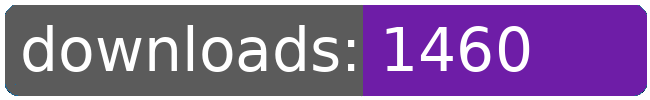
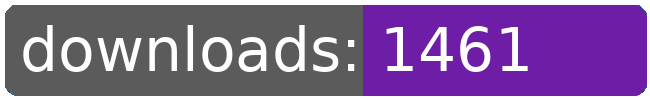
dl log written

Changed region(s): [[0.7692, 0.24, 0.8308, 0.72]]

diff --git a/README.md b/README.md
@@ -87,8 +87,8 @@
 		<td>1385</td>
 		<td>1411</td>
 		<td>1443</td>
-		<td>1460</td>
-		<td>+ 17</td>
+		<td>1461</td>
+		<td>+ 18</td>
 	</tr>
 	<tr>
 		<td>disable.aberrant.blockade</td>
@@ -252,8 +252,8 @@
 		<td></td>
 		<td></td>
 		<td></td>
-		<td>19443</td>
-		<td>309</td>
+		<td>19444</td>
+		<td>310</td>
 	</tr>
 </table>
 </sub></sup>
@@ -300,8 +300,8 @@
 		<td>1385</td>
 		<td>1411</td>
 		<td>1443</td>
-		<td>1460</td>
-		<td>+ 17</td>
+		<td>1461</td>
+		<td>+ 18</td>
 	</tr>
 	<tr>
 		<td>1requiredcrew</td>
@@ -509,8 +509,8 @@
 		<td></td>
 		<td></td>
 		<td></td>
-		<td>19443</td>
-		<td>309</td>
+		<td>19444</td>
+		<td>310</td>
 	</tr>
 </table>
 </sub></sup>
